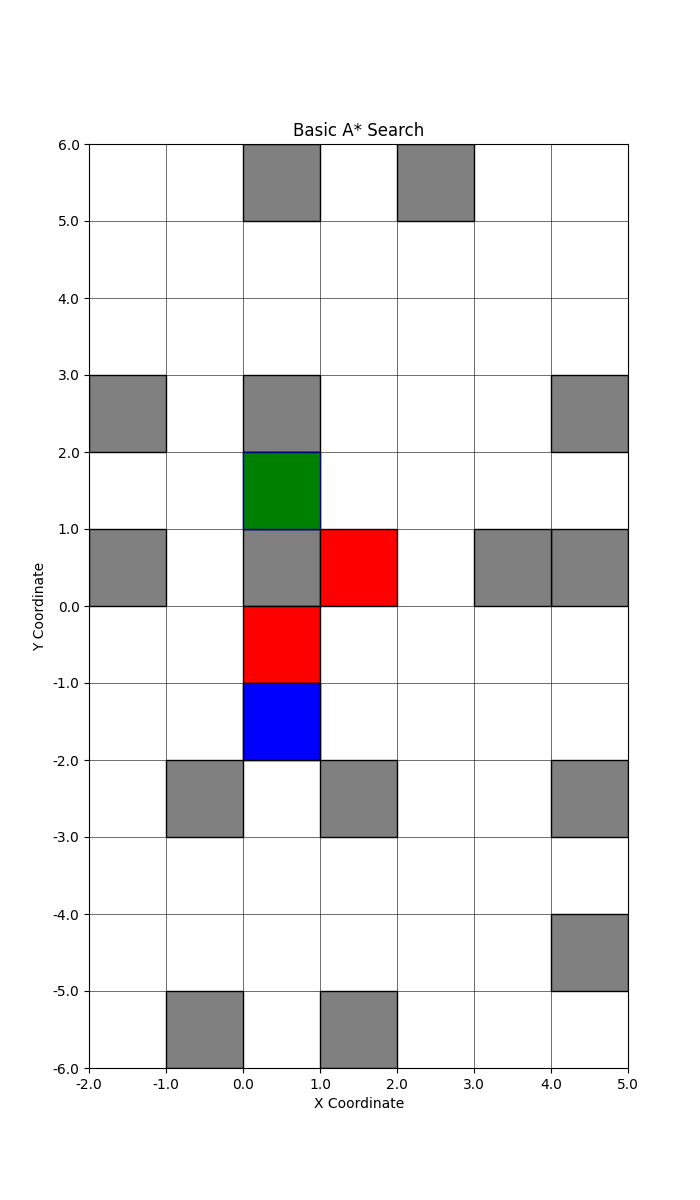
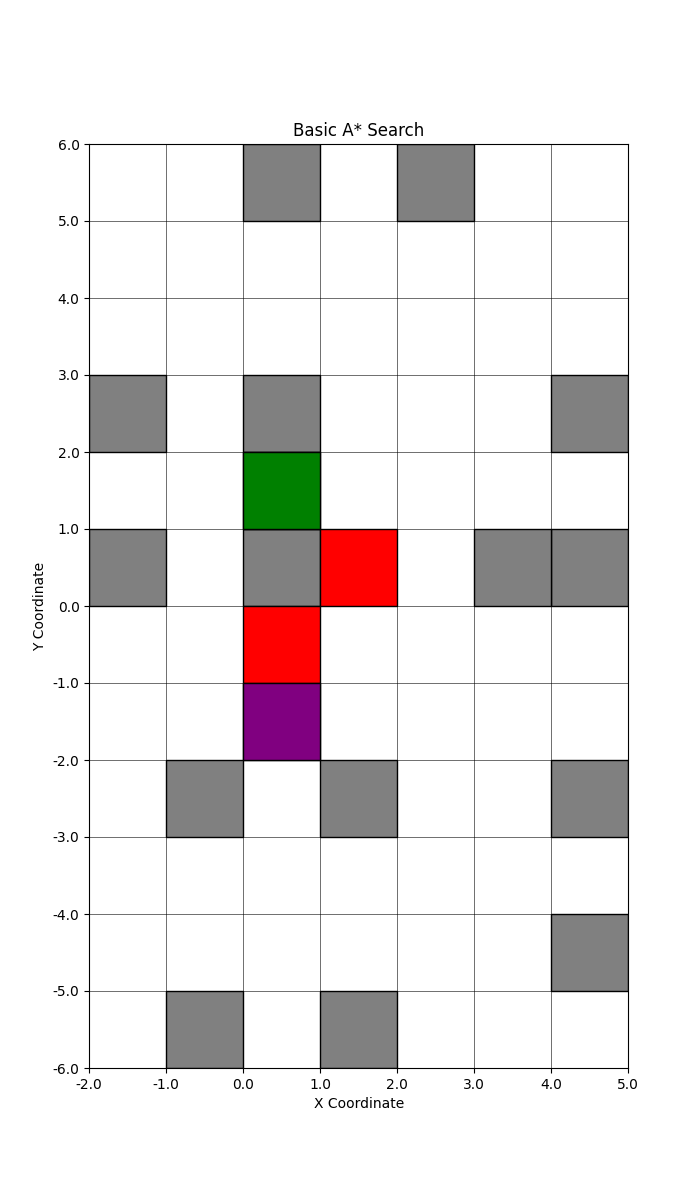
Cleaned up figures

Changed region(s): [[0.33, 0.555, 0.48, 0.6475], [0.45, 0.37, 0.48, 0.4317], [0.33, 0.37, 0.36, 0.4317]]

diff --git a/questions.py b/questions.py
@@ -10,6 +10,7 @@ import numpy as np
 import pandas as pd
 import matplotlib.pyplot as plt
 import matplotlib.patches as patches
+import matplotlib.path as mpl_path
 import os
 
 from search import a_star, a_star_online, a_star_real
@@ -24,7 +25,7 @@ METRICS_PATH = os.path.join(__file__, "..\\metrics")
 # --- Plotting ---
 #
 
-def plot_search(start, goal, path, bounds, res, obstacles, title, filename, traj=None):
+def plot_search(start, goal, path, bounds, res, obstacles, title, filename, traj=None, display_robot=True):
     fig, ax = plot_grid(bounds, res, obstacles, title)
 
     # Plot path
@@ -38,17 +39,31 @@ def plot_search(start, goal, path, bounds, res, obstacles, title, filename, traj
     # Plot start and goal
     start_rect = patches.Rectangle(
         (start[0], start[1]), res, res,
-        facecolor='blue', edgecolor='black'
+        facecolor='purple', edgecolor='black'
     )
     ax.add_patch(start_rect)
     goal_rect = patches.Rectangle(
         (goal[0], goal[1]), res, res,
-        facecolor='green', edgecolor='blue'
+        facecolor='green', edgecolor='black'
     )
     ax.add_patch(goal_rect)
 
     if traj is not None:
         ax.plot(traj[:,0], traj[:,1], color='black', linewidth=4)
+    
+    if traj is not None and display_robot:
+        arrow = np.array([[0.1, 0.3], [0.1, -0.3], 
+                          [1.0, 0.0], [0.1, 0.3]])  # arrow shape
+        color = 'blue'
+        for i, xt in enumerate(traj):
+            if i % (traj.shape[0] // 25) == 0 or i == 0:
+                # Plot robot location and heading
+                R = np.array([[np.cos(xt[2]), np.sin(xt[2])],
+                                            [-np.sin(xt[2]), np.cos(xt[2])]])
+                arrow_rot = 2*arrow @ R
+                codes = [mpl_path.Path.MOVETO, mpl_path.Path.LINETO, mpl_path.Path.LINETO, mpl_path.Path.CLOSEPOLY]
+                arrow_head_marker = mpl_path.Path(arrow_rot, codes)
+                ax.plot(xt[0], xt[1], linestyle='', marker=arrow_head_marker, markersize=12, color=color)
 
     fig_path = os.path.join(PLOT_PATH, filename)
     plt.savefig(fig_path)
@@ -88,6 +103,10 @@ def plot_grid(bounds, res, obstacles, title=None):
     ax.set_xlabel('X Coordinate')
     ax.set_ylabel('Y Coordinate')
     ax.set_aspect('equal')
+    
+    # Set axis limits
+    ax.set_xlim(bounds[0])
+    ax.set_ylim(bounds[1])
 
     if title is None:
         ax.set_title('A* Gridworld')
@@ -256,7 +275,7 @@ def q8():
     start = np.array([-2, -6])
     goal = np.array([4, 5])
     a_star_path = a_star(start, goal, bounds, res, obstacles)
-    x_traj = sim_rk4(a_star_path, kv=1.0, kw=1.0, h=0.1, noise=1e-2, thresh=5e-1)
+    x_traj = sim_rk4(a_star_path, kv=1.0, kw=1.0, h=0.1, noise=1e-2, thresh=9e-2)
     plot_search(start, goal, a_star_path, bounds, res, obstacles, f'Interpolated Robot Path with A* Search', 'q8.png', traj=x_traj)
 
     print("Done\n")
@@ -303,7 +322,7 @@ def q10():
     # Compute A* path
     start = np.array([-2, -6])
     goal = np.array([4, 5])
-    path, x_traj = a_star_real(start, goal, bounds, res, obstacles, kv=1.0, kw=1.0, h=0.01, noise=1e-2, thresh=5e-1)
+    path, x_traj = a_star_real(start, goal, bounds, res, obstacles, kv=1.0, kw=1.0, h=0.01, noise=1e-2, thresh=0.1)
     plot_search(start, goal, path, bounds, res, obstacles, f'Online Robot Path with A* Search', 'q10.png', traj=x_traj)
 
     print("Done\n")
@@ -322,17 +341,17 @@ def q11():
     start = round_to_res(np.array([0.5, -1.5]), res)
     goal = round_to_res(np.array([0.5, 1.5]), res)
     path, x_traj = a_star_real(start, goal, bounds, res, obstacles, kv=1.0, kw=1.0, h=0.1, noise=noi, thresh=9e-2, interp=True)
-    plot_search(start, goal, path, bounds, res, obstacles, f'Online Robot Path with A* Search', 'q11a.png', traj=x_traj)
+    plot_search(start, goal, path, bounds, res, obstacles, f'Online Robot Path with A* Search', 'q11a.png', traj=x_traj, display_robot=True)
 
     start = round_to_res(np.array([4.5, 3.5]), res)
     goal = round_to_res(np.array([4.5, -1.5]), res)
     path, x_traj = a_star_real(start, goal, bounds, res, obstacles, kv=1.0, kw=1.0, h=0.1, noise=noi, thresh=9e-2, interp=True)
-    plot_search(start, goal, path, bounds, res, obstacles, f'Online Robot Path with A* Search', 'q11b.png', traj=x_traj)
+    plot_search(start, goal, path, bounds, res, obstacles, f'Online Robot Path with A* Search', 'q11b.png', traj=x_traj, display_robot=True)
 
     start = round_to_res(np.array([-0.5, 5.5]), res)
     goal = round_to_res(np.array([1.5, -3.5]), res)
     path, x_traj = a_star_real(start, goal, bounds, res, obstacles, kv=1.0, kw=1.0, h=0.1, noise=noi, thresh=9e-2, interp=True)
-    plot_search(start, goal, path, bounds, res, obstacles, f'Online Robot Path with A* Search', 'q11c.png', traj=x_traj)
+    plot_search(start, goal, path, bounds, res, obstacles, f'Online Robot Path with A* Search', 'q11c.png', traj=x_traj, display_robot=True)
 
     res = 1.0
     obstacles = get_obstacles(bounds, res, inflate=0)

diff --git a/run.py b/run.py
@@ -15,16 +15,16 @@ np.random.seed(42)
 def main():
     print("*** STARTING ***\n")
 
-    # q1()
-    # q2()
-    # q3()
-    # q4()
-    # q5()
-    # q6()
-    # q7()
-    # q8()
-    # q9()
-    # q10()
+    q1()
+    q2()
+    q3()
+    q4()
+    q5()
+    q6()
+    q7()
+    q8()
+    q9()
+    q10()
     q11()
     
     print("\n*** DONE ***")
